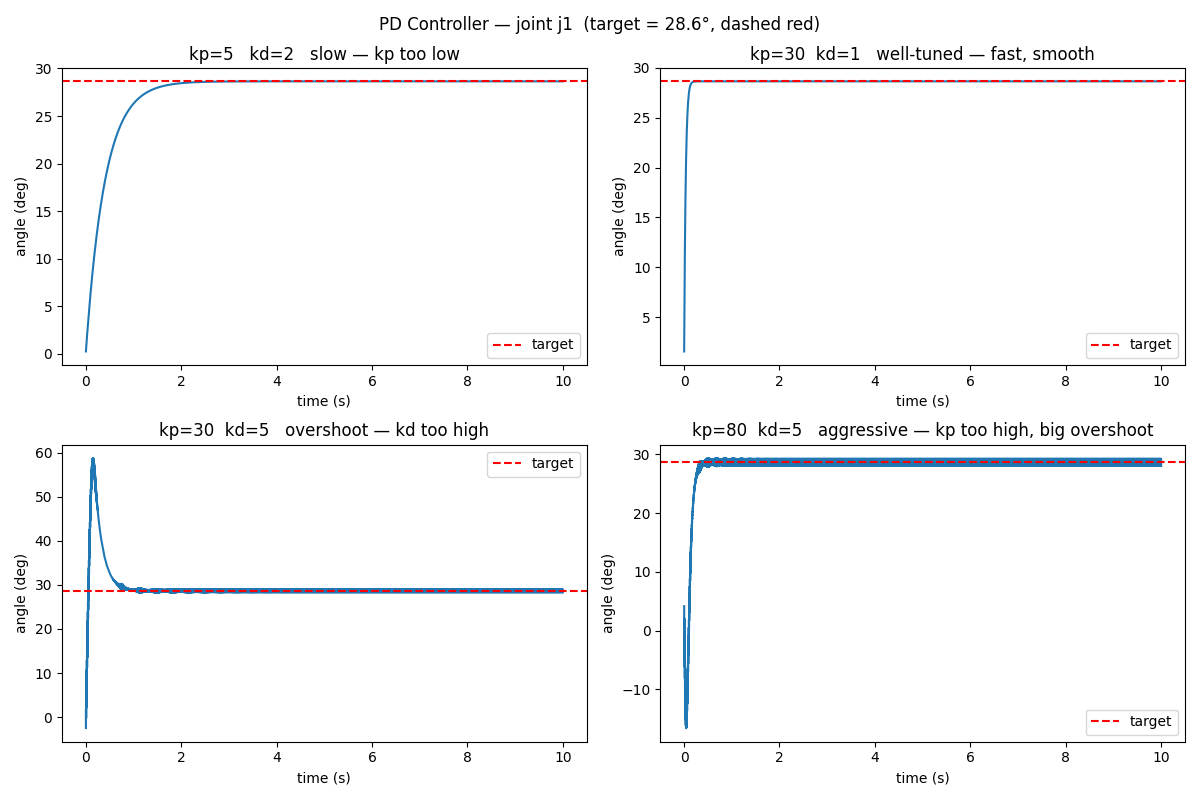
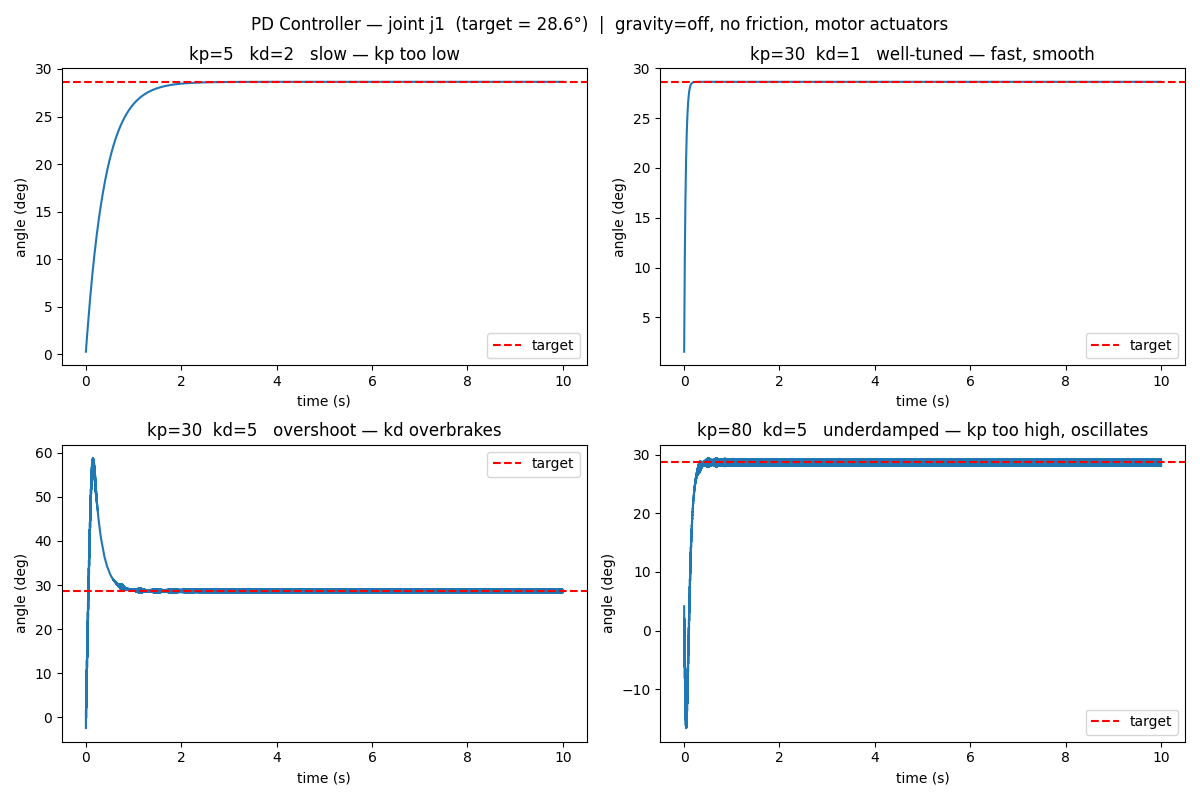
fix: pd_controller labels, sim config in title, README table descriptions
- Restore working gain configs (kp=5/30/30/80, kd=2/1/5/5)
- Add sim config to suptitle: gravity=off, no friction, motor actuators
- Rename panels: slow / well-tuned / overshoot (kd overbrakes) / underdamped
- Update README table descriptions to match actual observed behaviors

diff --git a/courses/vla/ch01_mujoco/code/pd_controller.py b/courses/vla/ch01_mujoco/code/pd_controller.py
@@ -49,11 +49,11 @@ if __name__ == "__main__":
     configs = [
         (5,  2, "kp=5   kd=2   slow — kp too low"),
         (30, 1, "kp=30  kd=1   well-tuned — fast, smooth"),
-        (30, 5, "kp=30  kd=5   overshoot — kd too high"),
-        (80, 5, "kp=80  kd=5   aggressive — kp too high, big overshoot"),
+        (30, 5, "kp=30  kd=5   overshoot — kd overbrakes"),
+        (80, 5, "kp=80  kd=5   underdamped — kp too high, oscillates"),
     ]
     fig, axes = plt.subplots(2, 2, figsize=(12, 8))
-    fig.suptitle("PD Controller — joint j1  (target = 28.6°, dashed red)")
+    fig.suptitle("PD Controller — joint j1  (target = 28.6°)  |  gravity=off, no friction, motor actuators")
     for ax, (kp, kd, label) in zip(axes.flat, configs):
         timestamps, q = run_pd(model, kp, kd)
         ax.plot(timestamps, np.degrees(q[:, 0]))

diff --git a/courses/vla/ch01_mujoco/README.md b/courses/vla/ch01_mujoco/README.md
@@ -224,10 +224,10 @@ Each panel shows joint j1 angle over time. The dashed red line is the target (28
 
 | Panel | What to look for |
 |---|---|
-| **slow (kp too low)** | Takes ~3 s to arrive — kp is too weak to accelerate the arm quickly |
-| **well-tuned** | Fast rise, settles at the target in ~0.3 s without bouncing — kp and kd are balanced |
-| **overshoot (kd too high)** | Shoots past to 58°, bounces back, eventually settles — kd is braking so hard it carries the arm past target |
-| **aggressive (kp too high)** | Spikes to −15° then overshoots to 29°, eventually settles — kp is so strong the first torque impulse overwhelms kd's braking |
+| **slow (kp too low)** | Arm crawls to target over ~3 s — kp is too weak to push the arm fast |
+| **well-tuned** | Reaches target in ~0.3 s, no bounce — kp pushes hard, kd brakes just enough to stop exactly at target |
+| **overshoot (kd overbrakes)** | Shoots past to 58°, bounces back and settles — kd is braking so early and hard it carries momentum past target before the arm reverses |
+| **underdamped (kp too high)** | Fast rise but dips to −15°, bounces through target several times — kp generates so much torque that kd=5 can't absorb the kinetic energy fast enough |
 
 The well-tuned case (top-right) is what you want on a real robot: fast, no oscillation, no overshoots that could hit objects.
 
